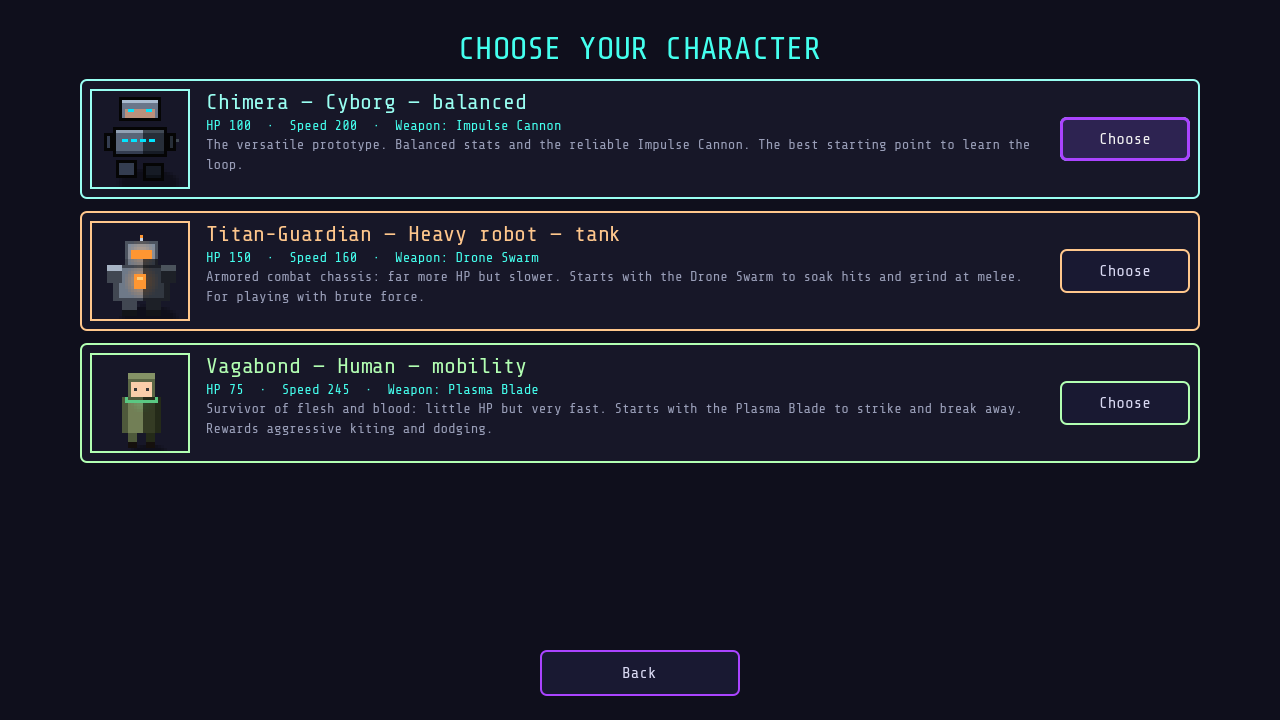
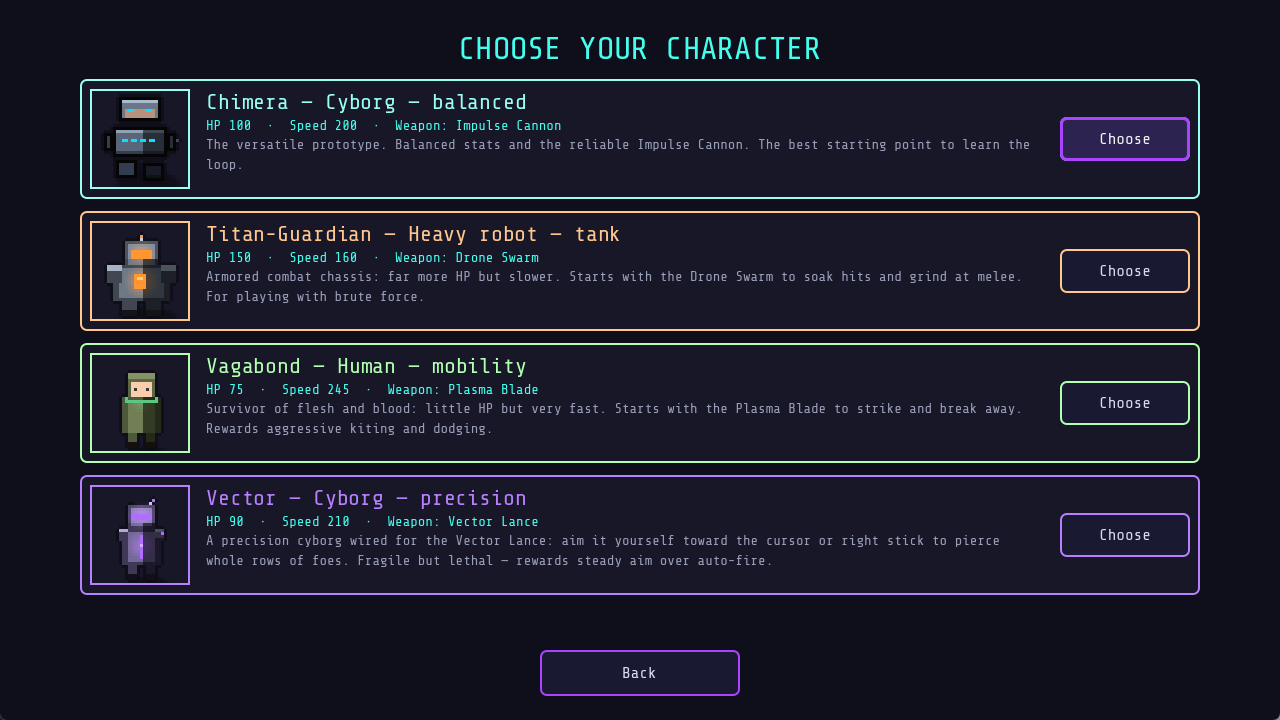
@ docs(store): recapture charsel.png (EN, 4 persos avec Vecteur, 1.10.0)
Écran de sélection re-capturé en anglais 1280x720 : Chimera, Titan-Guardian,
Wanderer et Vector (nouveau) tiennent tous à l écran. Retrait de l avertissement
"à re-capturer" dans la page store.

@

diff --git a/docs/ITCH_STORE_PAGE.md b/docs/ITCH_STORE_PAGE.md
@@ -160,7 +160,7 @@ Captures à jour (rendu pseudo-3D, anglais, 1280×720 sauf cover), régénérée
 | 1 | `docs/store_screens/gameplay_fournaise.png` | **Run en Fournaise** — coulée de lave, sol pseudo-3D, joueur au centre | « Survis aux marées de Rouille sur 5 biomes. » |
 | 2 | `docs/store_screens/bestiary.png` | **Bestiaire** — faune néon (Security Drone, Holographic Glitch, Laser Turret, Synthetic Golem) | « Une faune propre à chaque biome. » |
 | 3 | `docs/store_screens/menu.png` | **Menu principal** stylé (titre néon, Bestiaire/Arsenal/Options) | Image de couverture / vitrine. |
-| 4 | `docs/store_screens/charsel.png` | **Sélection de personnage** — les Arpenteurs redessinés en pseudo-3D ⚠️ **à re-capturer** (montre encore 3 persos, Vecteur ajouté en 1.10.0) | « 4 Arpenteurs, 4 styles de jeu. » |
+| 4 | `docs/store_screens/charsel.png` | **Sélection de personnage** — les 4 Arpenteurs en pseudo-3D (Chimera, Titan, Vagabond, Vecteur), EN, à jour 1.10.0 | « 4 Arpenteurs, 4 styles de jeu. » |
 | 5 | `docs/store_screens/levelsel.png` | **Sélection de biome** — les 5 arènes et leurs effets | « 5 biomes, 5 règles. Conquiers-les tous. » |
 | 6 | `docs/store_screens/arsenal.png` | **Arsenal** — armes/passifs avec icônes et descriptions | « Un arsenal qui se construit. » |
 | 7 | `docs/store_screens/gameplay_neon.png` | **Run en Secteur Néon** — grille néon, ambiance overclock | « Risque vs récompense : +10 % vitesse, +15 % XP. » |